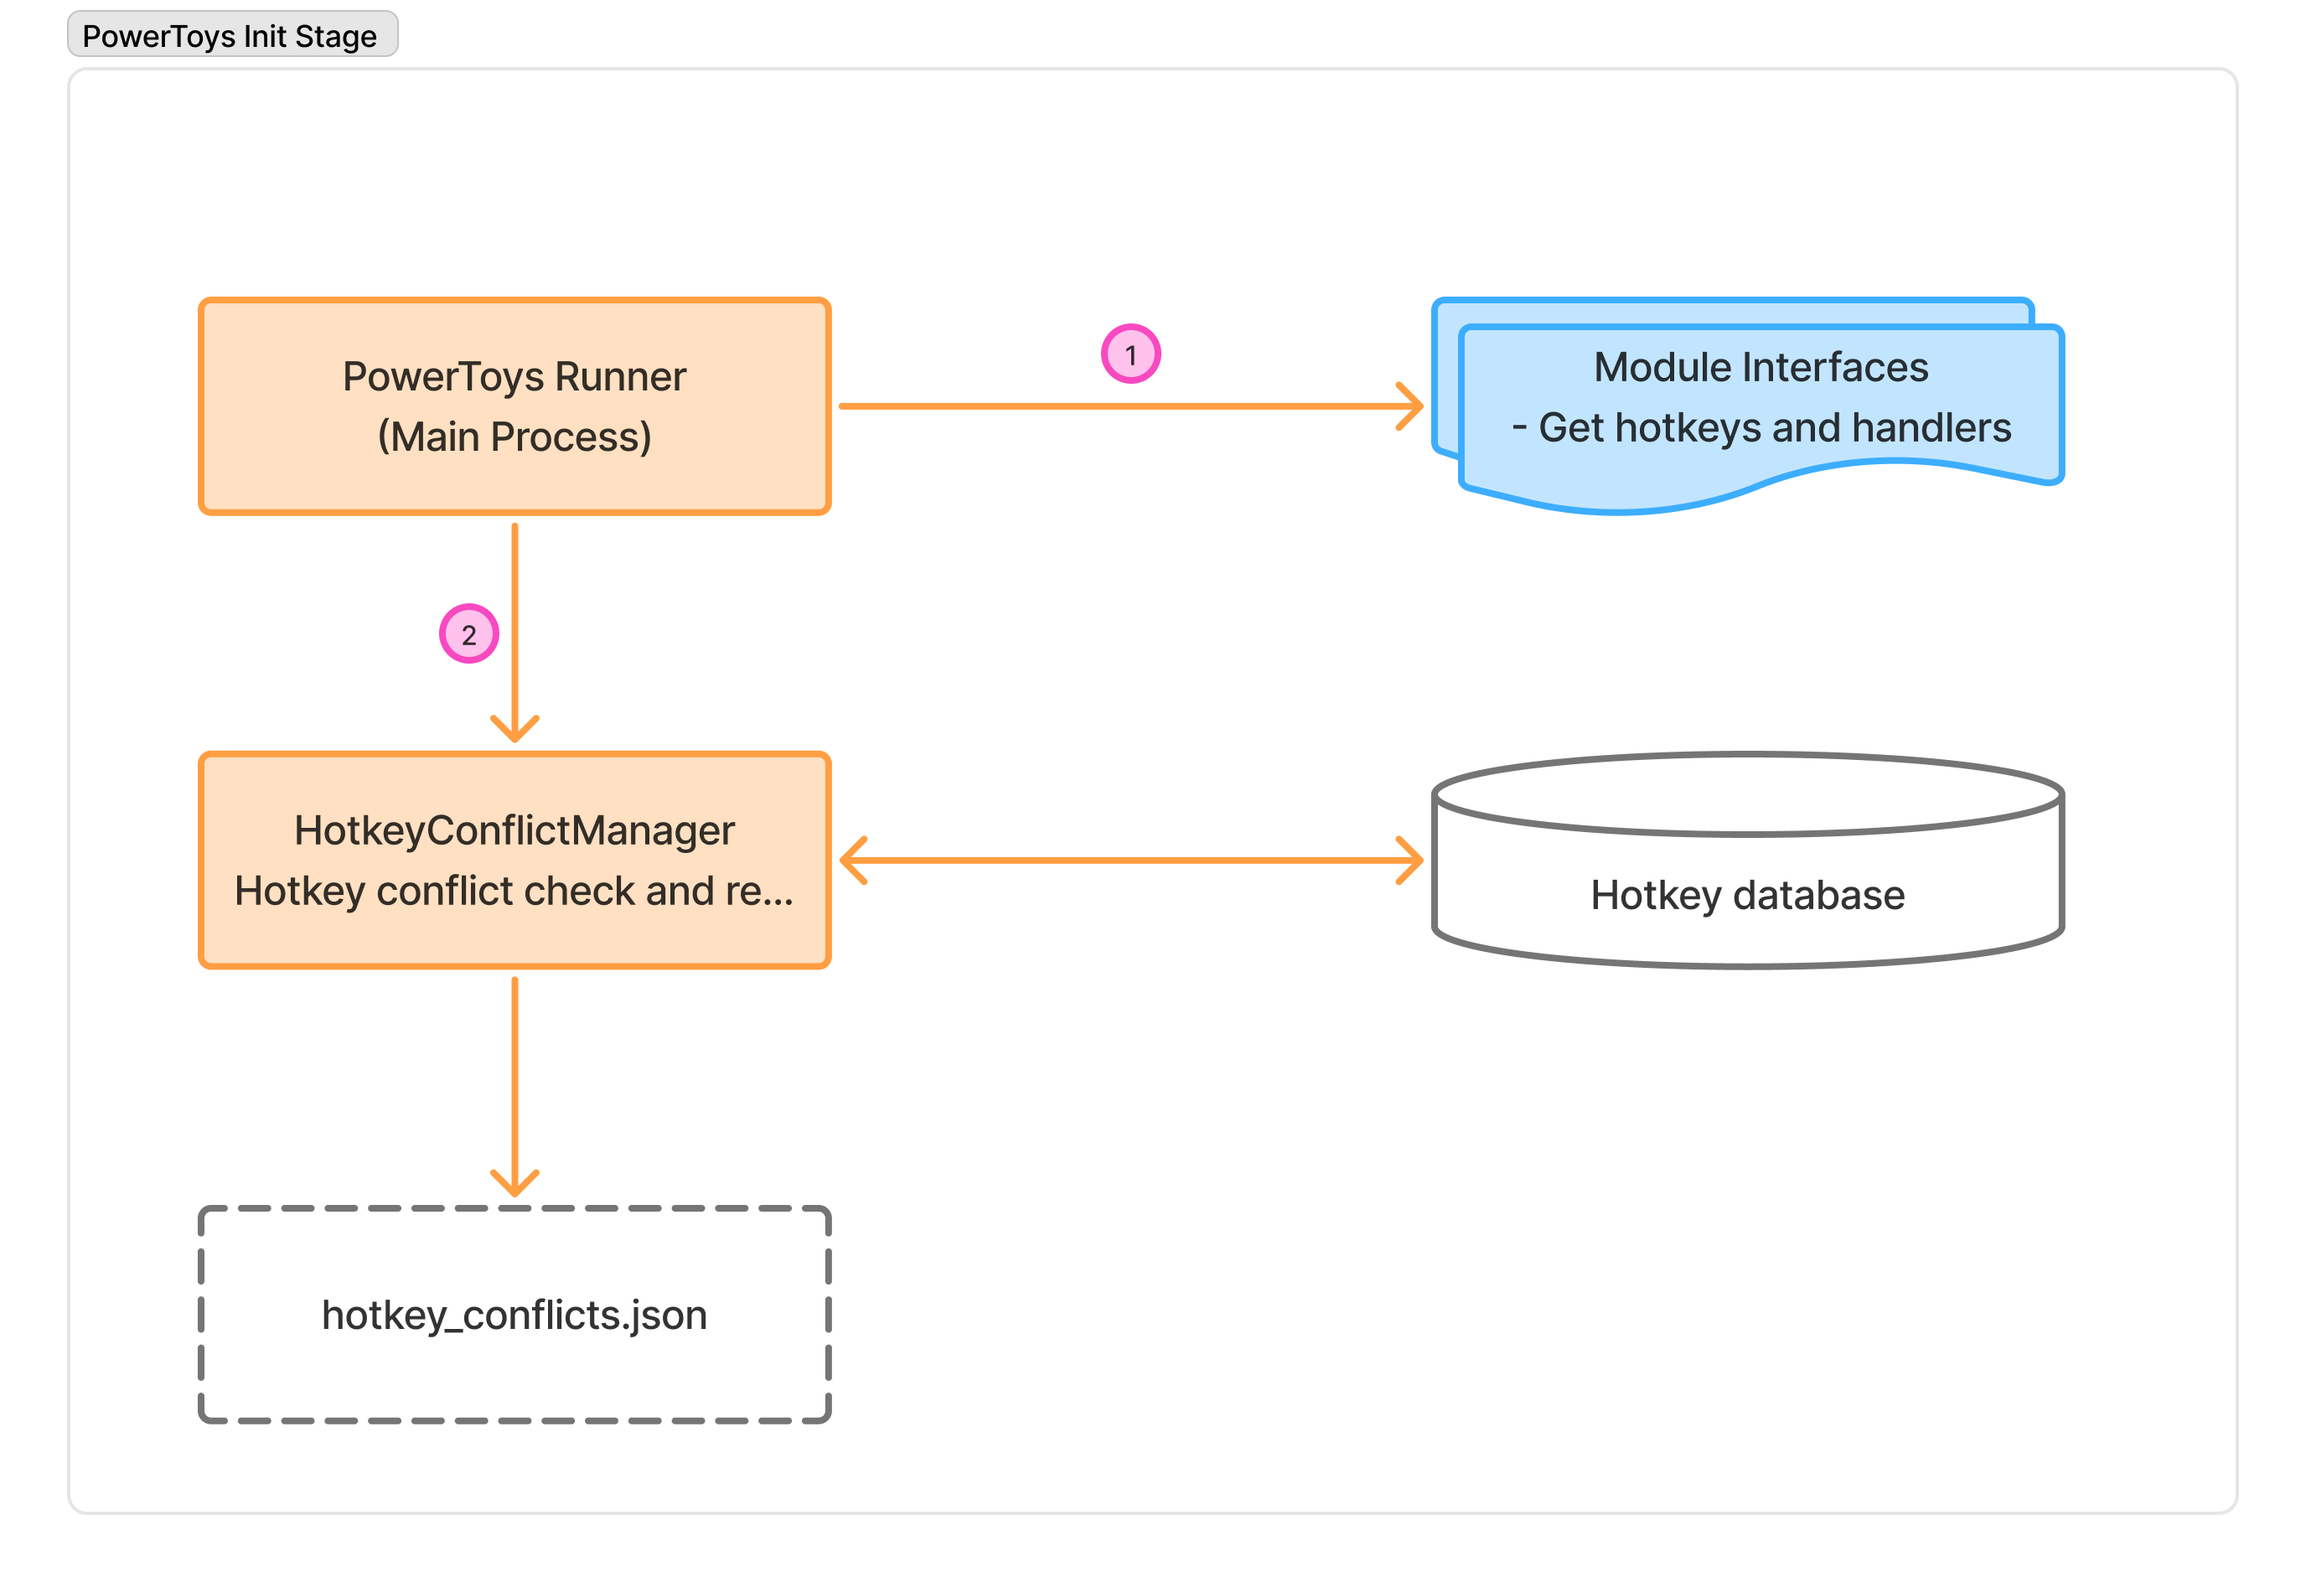
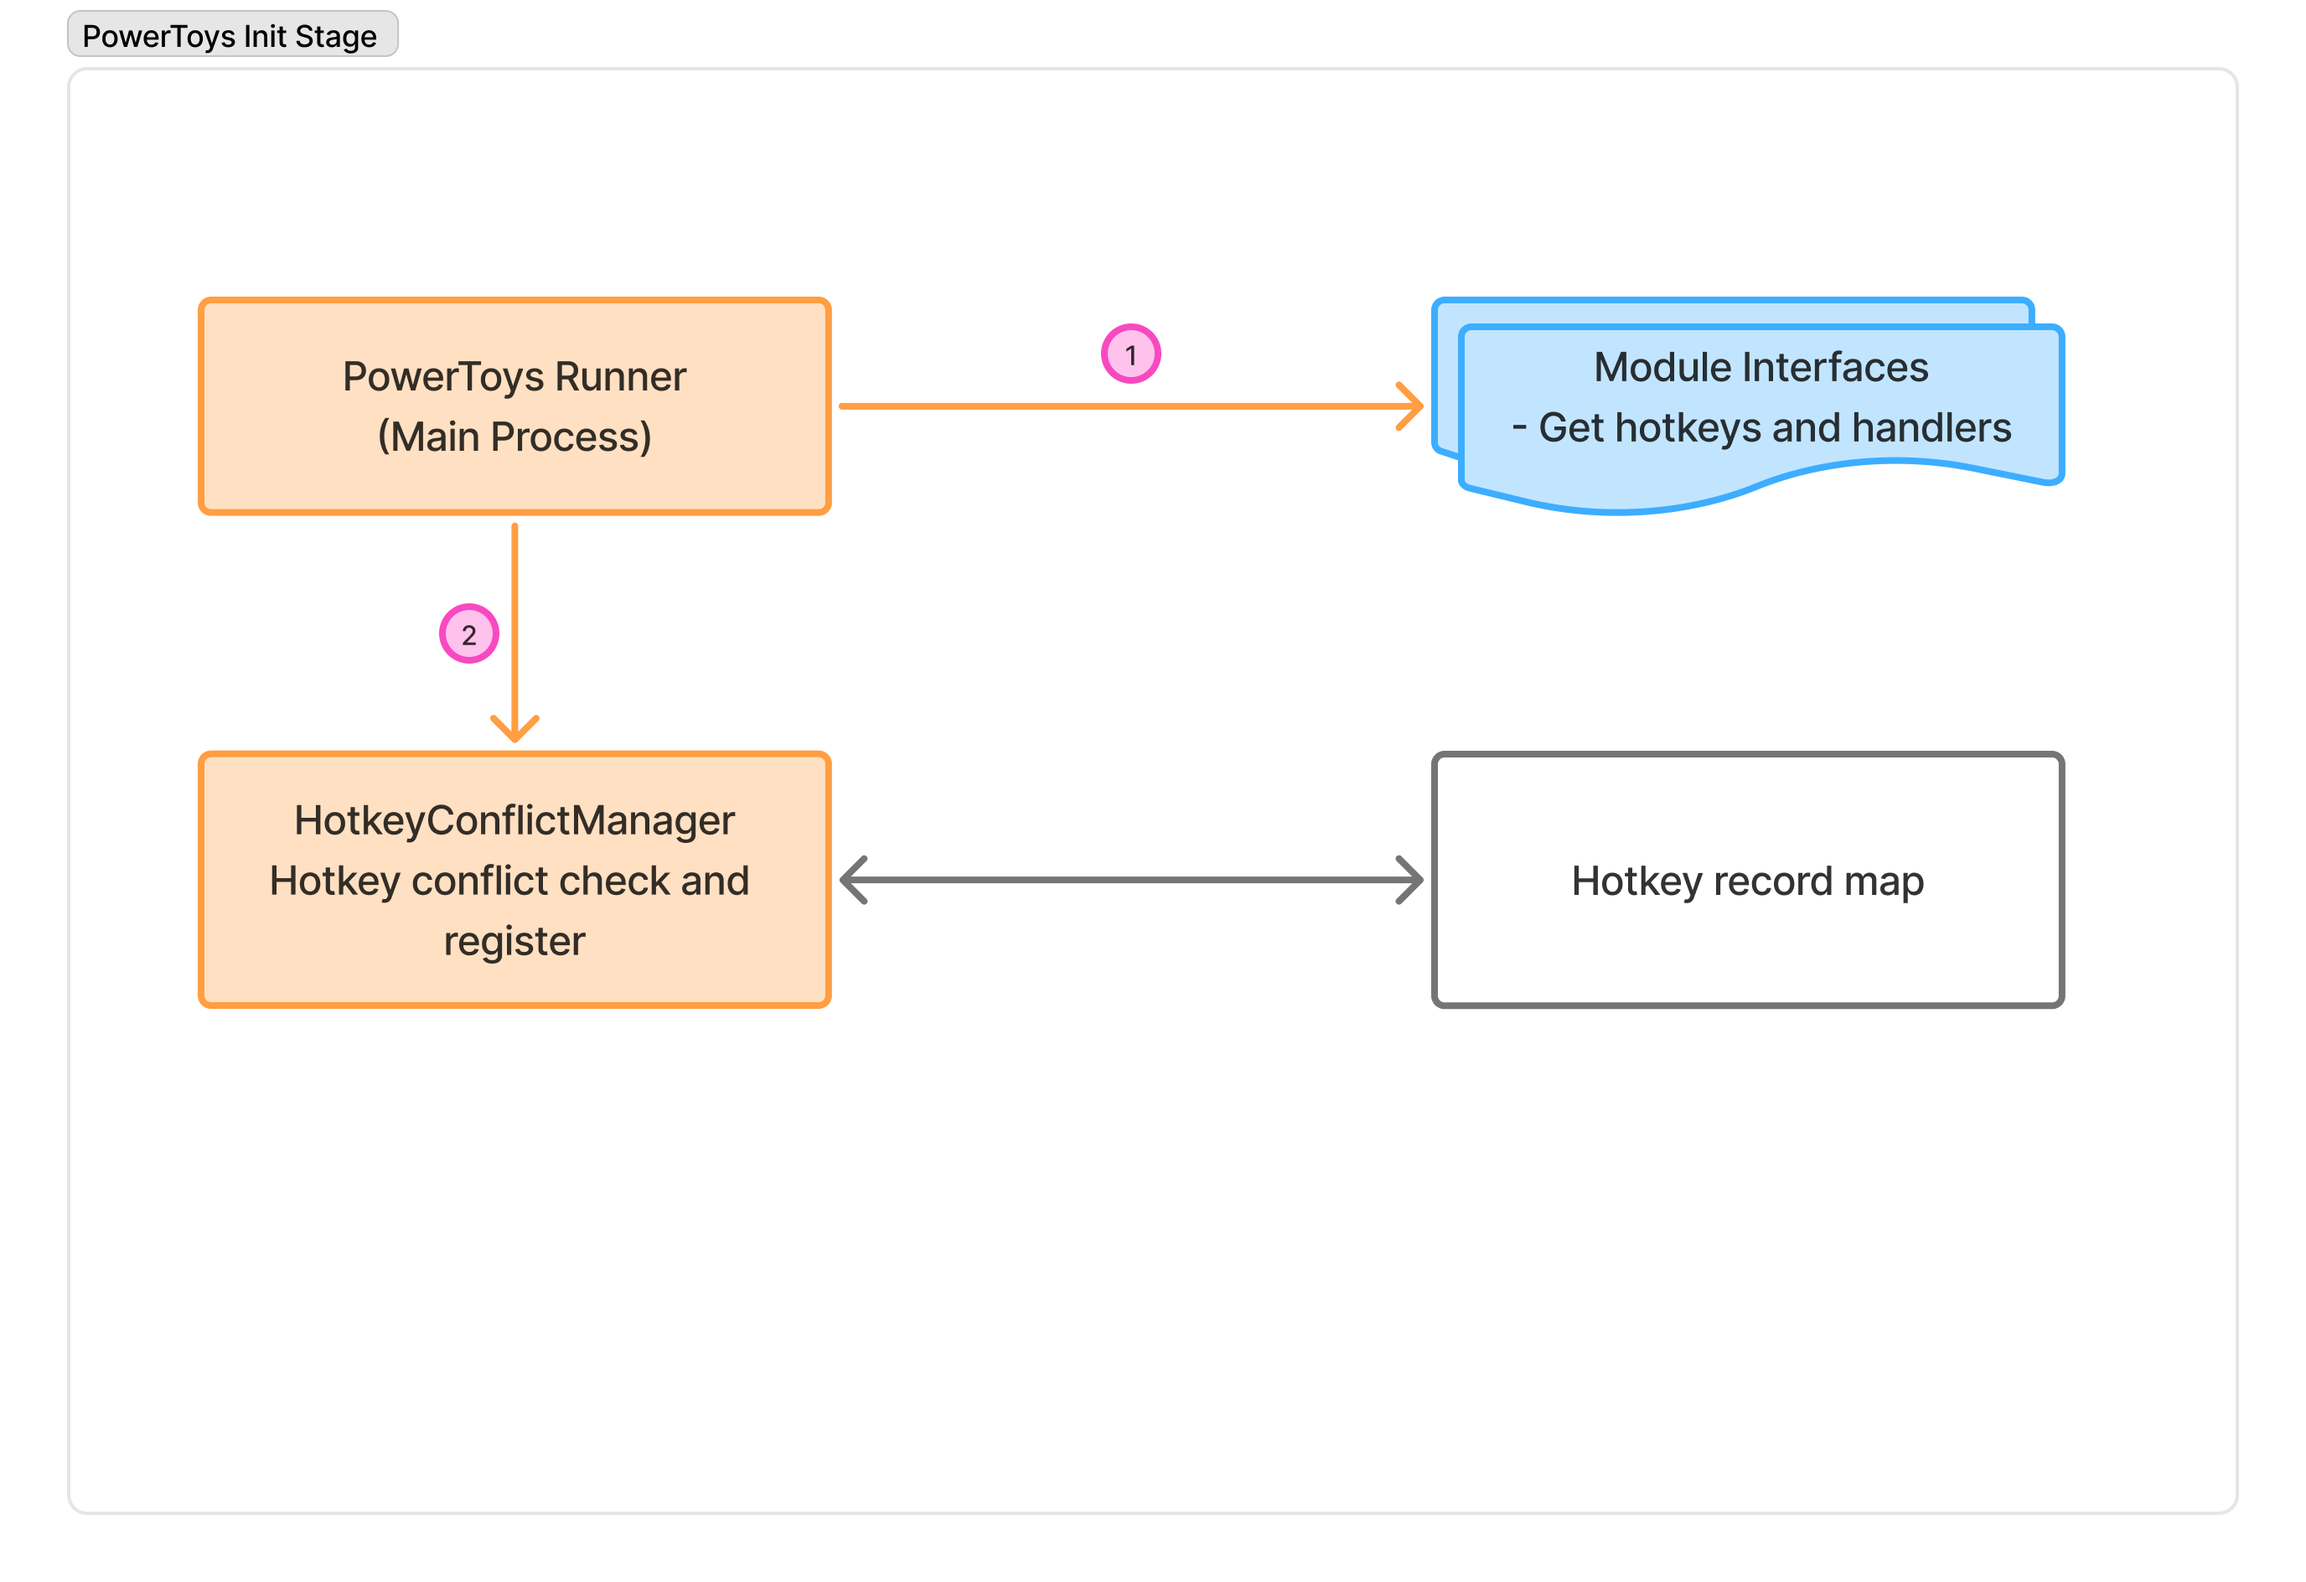
Update doc

diff --git a/doc/specs/HotkeyConflictDetect.md b/doc/specs/HotkeyConflictDetect.md
@@ -10,26 +10,6 @@ This feature aims to:
 - Improve reliability and user experience in hotkey customization.
 
 ---
-
-## Goals and Non-goals
-
-### Goals
-
-- Detect conflicts between:
-  - Hotkeys assigned to different PowerToys modules.
-  - Hotkeys assigned to multiple functions within the same module.
-  - Hotkeys that overlap with system/global reserved hotkeys.
-- Provide real-time feedback to users in the Settings UI as they configure hotkeys.
-- Persist and expose conflict information for current hotkey assignments.
-
-### Non-goals
-
-- Detect hotkey conflicts with third-party applications (only system-level and PowerToys-internal).
-- Automatically resolve or reassign conflicting hotkeys (user intervention required).
-- Change or refactor existing hotkey assignment UI/UX beyond adding conflict warnings.
-
----
-
 ## Requirements
 
 ### Functional Requirements
@@ -39,19 +19,16 @@ This feature aims to:
      - Existing global or module-specific assignments.
      - System/global reserved hotkeys.
 
-2. **Conflict Information Storage**
-   - All detected conflicts are logged in a structured JSON file (`hotkey_conflicts.json`) under the PowerToys data directory.
-
-3. **Settings UI Integration**
+2. **Settings UI Integration**
    - When the user enters a new hotkey in the Settings UI:
      - An IPC request is sent to check for conflicts.
      - The UI displays a warning (icon, tooltip, details) if a conflict is found.
 
-4. **Conflict Types**
+3. **Conflict Types**
    - In-app conflict: Two PowerToys modules/functions assigned the same hotkey.
    - System conflict: The hotkey is reserved or registered by Windows/global OS.
 
-5. **Hotkey Uniqueness**
+4. **Hotkey Uniqueness**
    - Every hotkey is tagged with a unique name and module owner, persisted in config and runtime.
 
 ### Non-functional Requirements
@@ -98,7 +75,6 @@ This feature aims to:
 
 1. **PowerToys Runner Startup**
    - Runner process initializes and creates HotkeyConflictManager singleton instance
-   - Attempts to load existing conflict data from `hotkey_conflicts.json` file (creates empty structure if file doesn't exist)
    - Initializes internal data structures: `m_registeredHotkeys` map and conflict tracking collections
 
 2. **Module Registration Phase**
@@ -113,11 +89,6 @@ This feature aims to:
      - Internal `m_registeredHotkeys` map for duplicate combinations (in-app conflicts)
      - System hotkey registry via Windows API calls (system conflicts)
    - Conflicts are detected but don't block module initialization
-
-4. **Conflict Persistence**
-   - After conflict detection, results are written to `hotkey_conflicts.json`
-   - JSON structure includes `inAppConflicts` and `sysConflicts` arrays
-   - Runtime conflict state maintained in memory for fast IPC queries
 
 #### 2. Module Settings Page Real-time Conflict Detection
 <div align="center">
@@ -149,21 +120,19 @@ This feature aims to:
    - **Conflict detected:**
      - Warning icon appears in ShortcutControl
      - Tooltip displays conflict details (module name + hotkey name)
-     - Save operation is prevented
    - **No conflict:**
-     - UI shows normal state, allows saving
+     - UI shows normal state
 
 #### 3. Global Conflict Overview Dashboard
 <div align="center">
-<img src="../images/hotkeyConflict/AllConflictsDisplayPage.png" alt="Comprehensive conflict summary displayed on general settings page" width="280px">
+<img src="../images/hotkeyConflict/AllConflictsDisplayPage.png" alt="Comprehensive conflict summary displayed on general settings page" width="480px">
 </div>
 
 **System-wide conflict management interface (Future Implementation):**
 
-1. **Conflict Data Loading**
-   - General settings page reads from `hotkey_conflicts.json`
-   - Displays both in-app and system conflicts in categorized sections
-   - Real-time updates when conflicts are resolved
+1. **Get all conflict data via IPC call**
+   - Settings UI sends `check_hotkey_conflict` IPC message to Runner.
+   - Runner send responsed IPC to settings which includes all the hotkey conflict data.
 
 2. **Conflict Display Structure**
    - **In-App Conflicts Section:**
@@ -177,18 +146,12 @@ This feature aims to:
 3. **Conflict Resolution Tools**
    - Navigation links to affected module settings pages
 
-**Demo page**
-<div align="center">
-<img src="../images/hotkeyConflict/GeneralPageDemoUI.jpg" width="800px">
-</div>
-
 **Actual Data Flow Implementation:**
 ```
 Settings UI Input → IPC Request (check_hotkey_conflict) → 
 HotkeyConflictManager::CheckHotkeyConflict() → 
-Registry Check + System API Check → 
-JSON Response → UI Feedback → 
-hotkey_conflicts.json Update (on actual registration)
+Hotkey record map Check + System API Check → 
+JSON IPC Response → UI Feedback
 ```
 
 **Key Implementation Details from PR:**
@@ -203,7 +166,7 @@ hotkey_conflicts.json Update (on actual registration)
 - **HotkeyConfig**
   - key, modifiers, hotkeyName, ownerModuleName
 
-- **hotkey_conflicts.json**
+- **IPC response JSON format example**
   ```json
   {
     "inAppConflicts": [
@@ -255,11 +218,10 @@ hotkey_conflicts.json Update (on actual registration)
 - Assign the same hotkey to two different modules, verify conflict is detected and shown.
 - Assign a hotkey that matches a known system-reserved combination, verify system conflict is detected.
 - Remove a conflicting hotkey, verify the conflict warning disappears for the remaining one.
-- Hotkey conflict info should persist in `hotkey_conflicts.json`.
 - UI should always reflect the latest conflict status after any change.
 
 ---
 
 ## Appendix
 
-- **Related Issues/PRs:** [PR #6 Shawn/hotkey conflict detect](https://github.com/shuaiyuanxx/PowerToys/pull/6)
+- **Related Issues/PRs:** [PowerToys hotkey conflict detection](https://github.com/microsoft/PowerToys/pull/40457)
